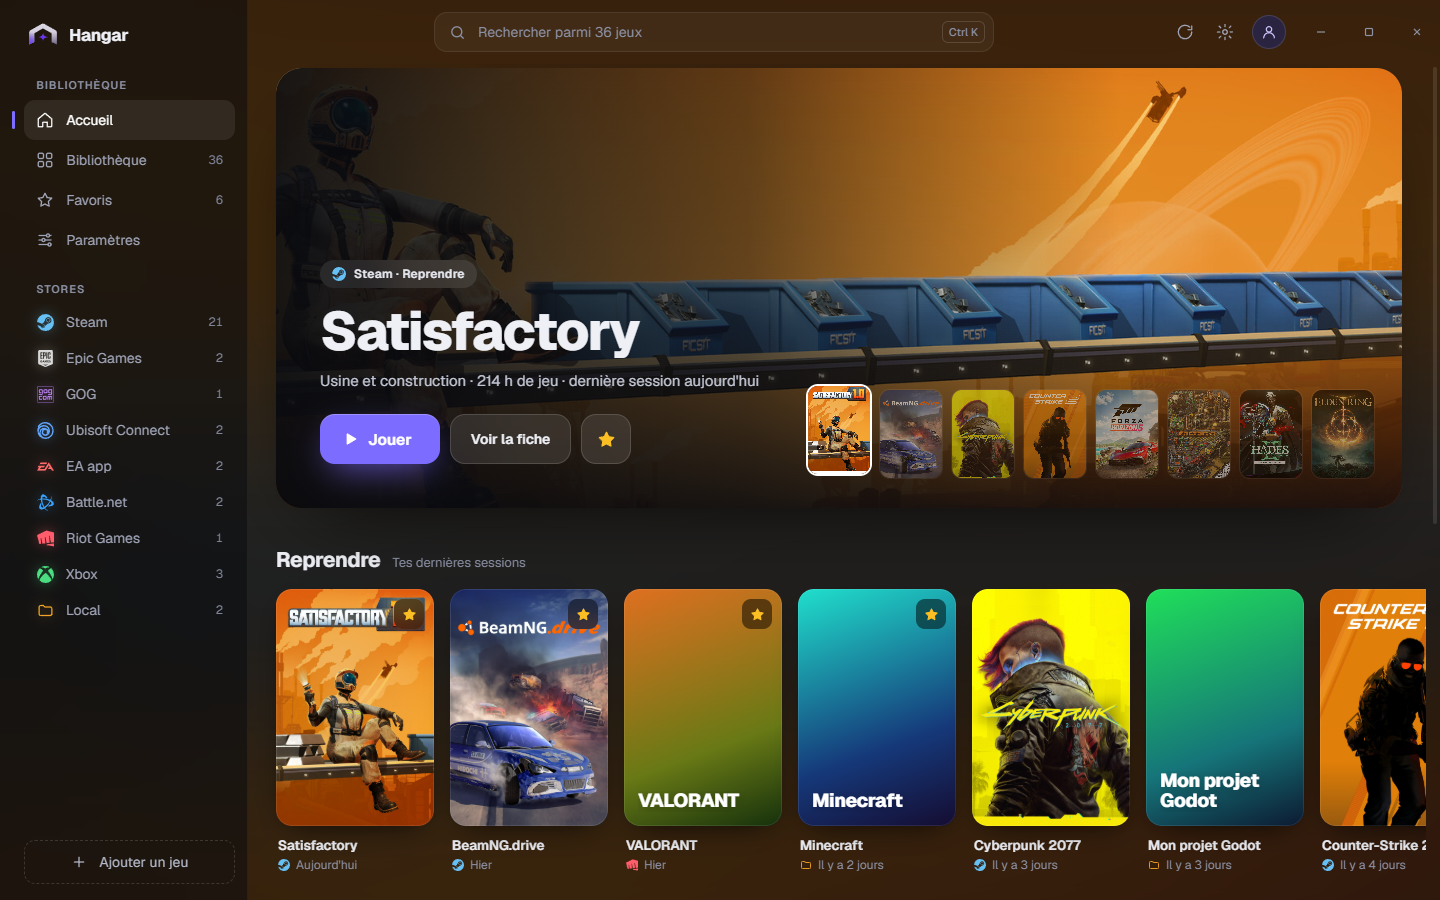
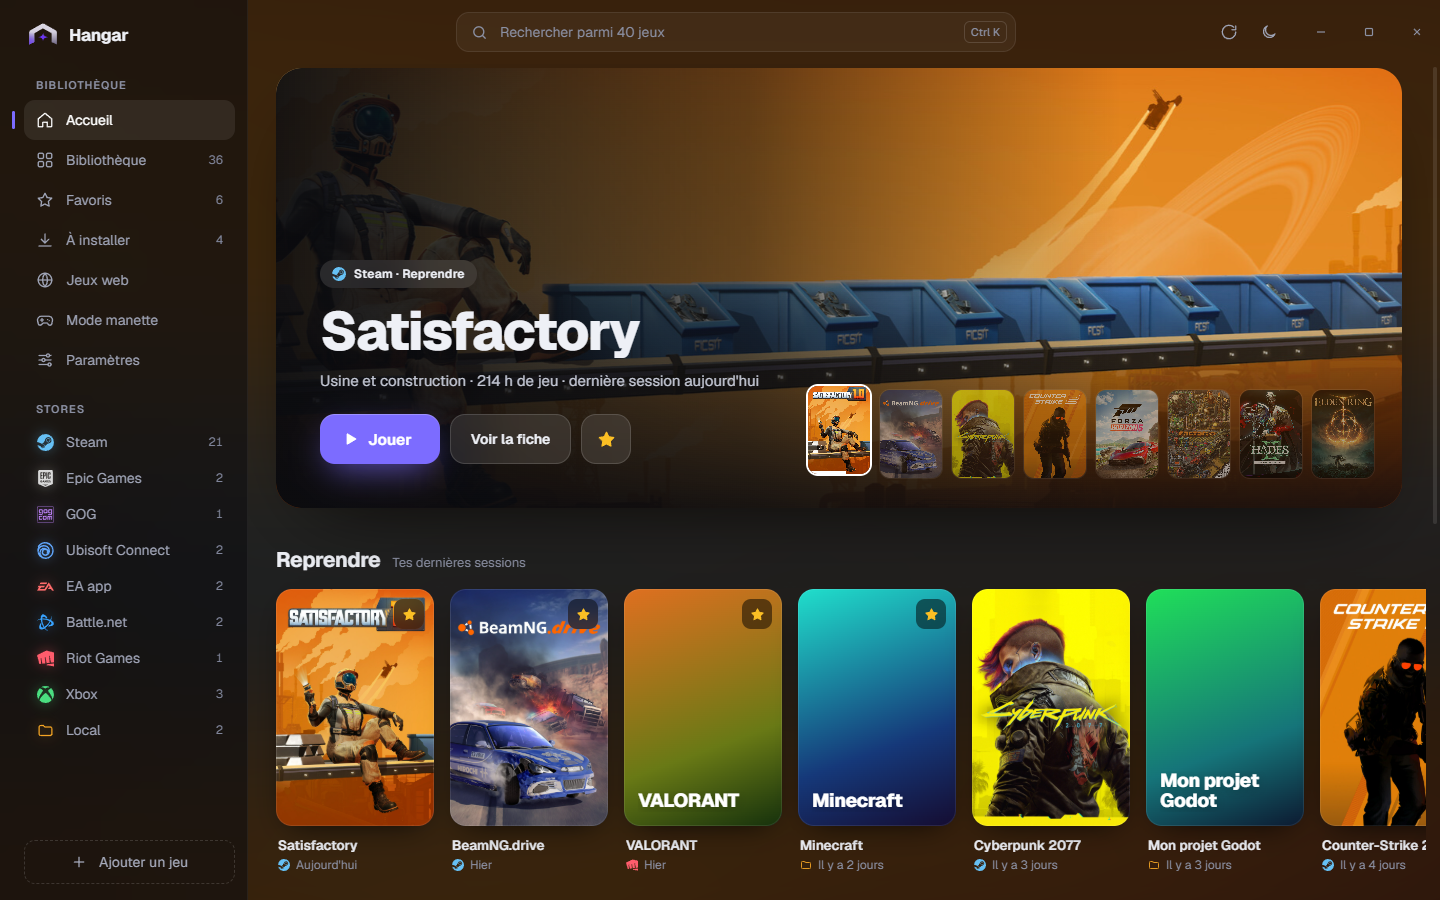
GitHub propre : actions Node 24, pas de build pour la doc ni pour le commit de version, notes de release depuis RELEASES.md
- Actions checkout, setup-node et upload-artifact en v7 (Node 24), épinglées par commit : plus d'avertissement « Node.js 20 is deprecated ».
- build.yml ignore les push qui ne touchent que la documentation et le commit « Version x.y.z » (déjà construit par la release).
- Chaque release GitHub affiche la section de sa version dans docs/RELEASES.md.
- PROMPT.md (message de démarrage du projet) retiré du dépôt ; mentions périmées de legacy/ et scanner.rs retirées.
- Captures du README refaites sur l'interface actuelle (données de démo), plus une capture des jeux web.

diff --git a/CLAUDE.md b/CLAUDE.md
@@ -9,7 +9,9 @@ Lis-les dans cet ordre, au début de chaque session :
 1. `docs/SPEC.md` : ce que fait l'app, écran par écran, avec les critères d'acceptation.
 2. `docs/DESIGN.md` : le design system (couleurs, typo, rayons, animations) et chaque composant. **La maquette validée par l'utilisateur fait foi.**
 3. `docs/ARCHITECTURE.md` : stack, découpage frontend/backend, modèle de données, commandes Tauri.
-4. `docs/PLAN.md` : les étapes à suivre dans l'ordre, avec ce qu'il faut vérifier à chacune.
+4. `docs/RELEASES.md` : procédure de publication et historique des versions (chargé plus bas).
+
+`docs/PLAN.md` est le plan de la construction initiale de l'app (terminée) : à consulter comme historique, pas à suivre.
 
 La source de la maquette est dans `design/reference/maquette-hangar.dc.html`. C'est un composant de l'outil de design de Claude, pas du code à copier tel quel : le balisage `<x-dc>`, `<sc-for>`, `<sc-if>` et `{{ ... }}` est un langage de template. Sers-t'en comme référence exacte des valeurs (couleurs, tailles, espacements, keyframes, textes). Les URL `/_blob/...` ne fonctionnent pas hors de l'outil : dans l'app, les images viennent du CDN Steam (voir DESIGN.md, section Jaquettes).
 
@@ -42,10 +44,9 @@ Hors de Windows, `npm run dev:web` lance le frontend seul dans un navigateur ave
 
 ## Façon de travailler
 
-- Suis `docs/PLAN.md` étape par étape. À la fin de chaque étape : `npm run check`, `npm run test`, `cargo test`, `cargo clippy`, puis un commit avec un message clair en français.
+- À la fin de chaque changement : `npm run check`, `npm run test`, `cargo test`, `cargo clippy`, puis un commit avec un message clair en français.
 - Compare régulièrement ton UI à la maquette (`npm run dev:web` + capture d'écran avec Playwright si disponible). Les écarts visibles sont des bugs.
-- Le dossier `src-tauri/src/scanner.rs` contient déjà une détection fonctionnelle de tous les stores (version 1 de l'app). Réutilise-la et améliore-la, ne repars pas de zéro.
-- Le dossier `src/` actuel (HTML/CSS/JS vanilla) est la version 1 de l'interface. Il est remplacé par l'app Svelte décrite dans ARCHITECTURE.md. Garde-le dans `legacy/` jusqu'à ce que la nouvelle UI soit à parité, puis supprime-le.
+- La détection des stores est dans `src-tauri/src/scanner/` (un fichier par store) : améliore-la, ne repars pas de zéro.
 - Si une information manque dans les docs, choisis l'option la plus simple qui respecte la maquette, note ton choix dans `docs/DECISIONS.md` et continue.
 
 ## Publier une version

diff --git a/docs/ARCHITECTURE.md b/docs/ARCHITECTURE.md
@@ -60,10 +60,7 @@ hangar/
       tracker.rs             suivi des processus et des sessions
       art.rs                 résolution Steam, cache disque des images, icônes d'exe
       size.rs                taille des dossiers (en tâche de fond, cachée)
-  legacy/                    ancienne UI vanilla (à supprimer à la fin)
 ```
-
-Le fichier actuel `src-tauri/src/scanner.rs` contient déjà tous les détecteurs. Découpe-le dans `scanner/` sans changer leur logique, puis améliore.
 
 ## 3. Modèle de données (TypeScript, miroir des structs Rust en camelCase)
 

diff --git a/README.md b/README.md
@@ -31,6 +31,8 @@ Hangar trouve tout seul les jeux de ton ordinateur (Steam, Epic, GOG, Ubisoft Co
 
 ![Page d'un jeu](docs/images/jeu.png)
 
+![Jeux web](docs/images/jeux-web.png)
+
 ## Installer
 
 Va sur la **[page des releases](https://github.com/maelpasq/hangar/releases/latest)** et télécharge le fichier de ton système :
